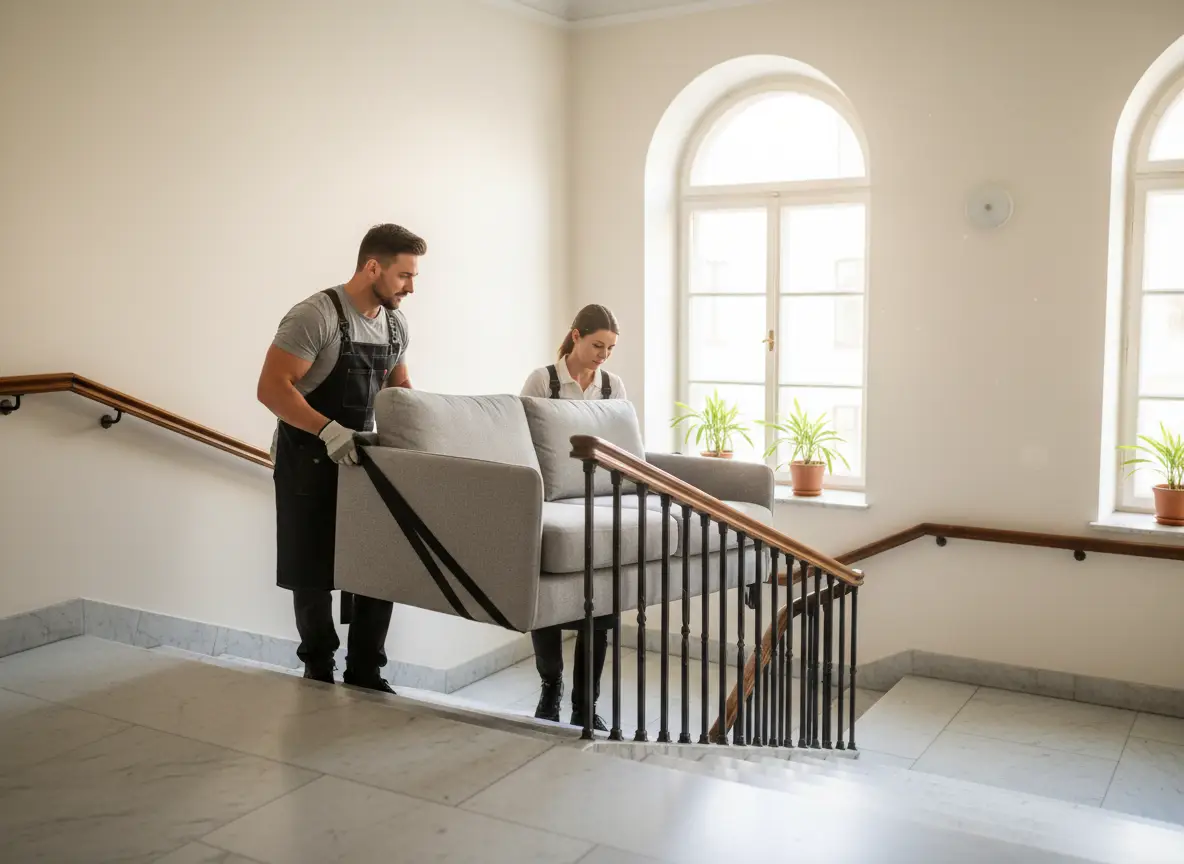
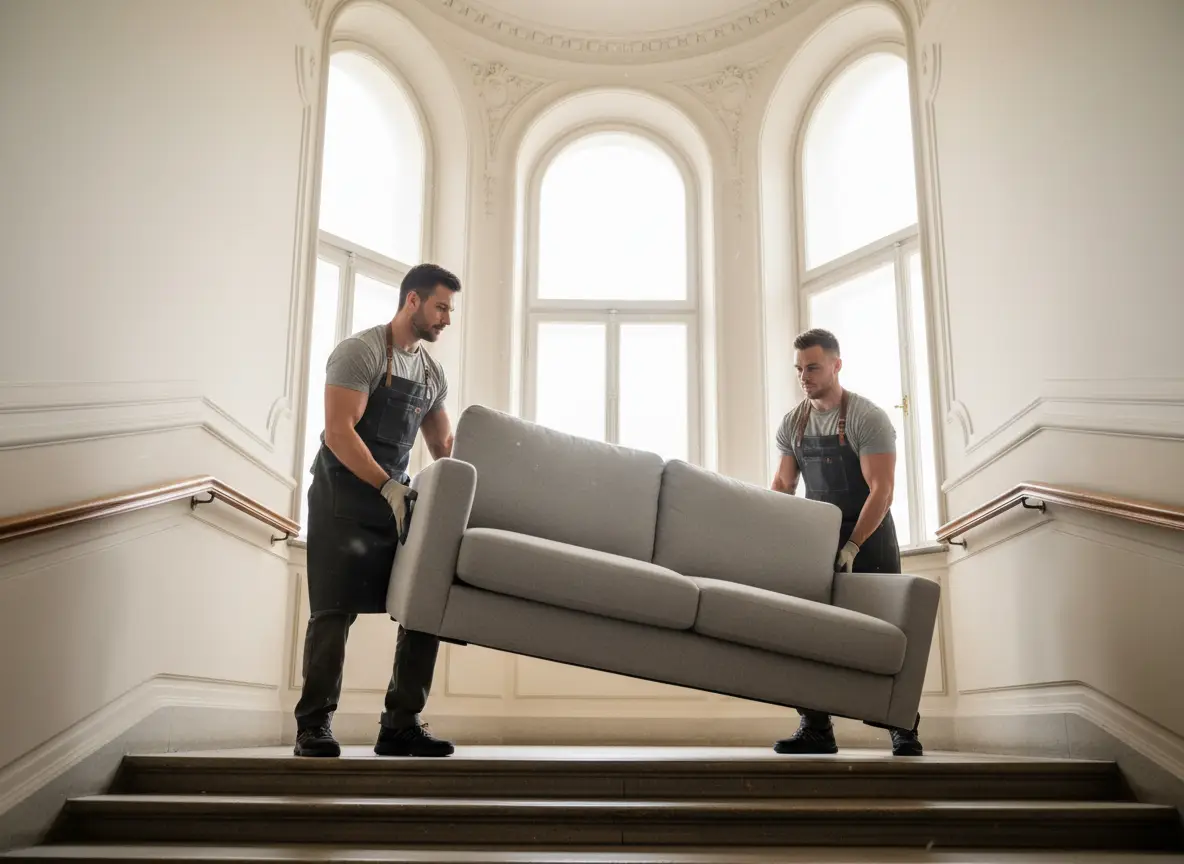
Нове фото вантажників (лише чоловіки) + лаконічні мобільні картки послуг
- Перегенеровано фото «Послуги вантажників»: двоє чоловіків несуть диван
  (без дівчини)
- Мобільні картки послуг зроблено максимально лаконічними: фото + іконка
  + назва, по 2 в ряд, без опису та прикладів — компактно й акуратно

Claude-Session: https://claude.ai/code/session_013ikc6AsB4A88eyXi8nT2fP

diff --git a/src/app/pages/home/home.scss b/src/app/pages/home/home.scss
@@ -252,33 +252,34 @@
   gap: 1.5rem;
 }
 
-/* На мобільному — компактні картки у 2 колонки, без списку прикладів,
-   щоб не доводилось довго скролити (за проханням клієнта). */
+/* На мобільному — максимально лаконічні картки у 2 колонки:
+   лише фото + іконка + назва (без опису та прикладів), щоб було
+   компактно й акуратно (за проханням клієнта). */
 @media (max-width: 560px) {
   .services-grid {
     grid-template-columns: 1fr 1fr;
-    gap: 0.85rem;
+    gap: 0.75rem;
   }
 
   .service-body {
-    padding: 0.9rem 0.9rem 1.1rem;
+    padding: 0.75rem 0.8rem 0.9rem;
+    align-items: center;
+    text-align: center;
   }
 
   .service-icon {
-    width: 2.35rem;
-    height: 2.35rem;
-    margin-bottom: 0.5rem;
+    width: 2.25rem;
+    height: 2.25rem;
+    margin: -1.9rem 0 0.4rem;
+    border: 2px solid #fff;
   }
 
   .service-title {
-    font-size: 1rem;
+    font-size: 0.98rem;
+    line-height: 1.2;
   }
 
-  .service-description {
-    font-size: 0.85rem;
-    margin-bottom: 0;
-  }
-
+  .service-description,
   .service-examples {
     display: none;
   }
